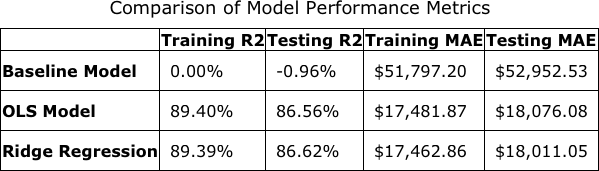
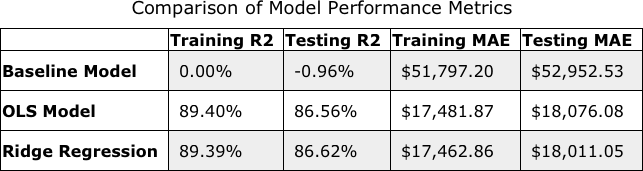
update summary tables as images

diff --git a/code/table_code.py b/code/table_code.py
@@ -24,10 +24,12 @@ tb_styles = {'selector': 'table',
 th_styles = {'selector': 'th', 
              'props': [('border', "1"),
                      ("border-color", "black"),
+                       ('background', 'white'),
                      ('border-style','solid'),
                      ('border-width','1px'),
                      ('font-family', 'verdana'),
                      ('white-space', 'nowrap'),
+                       ('padding-right',"10px"),
                      ("text-align", "left")]}
 
 # Css for data rows
@@ -48,8 +50,63 @@ cap_style = {'selector':'caption',
                       ("font-size", "large"),
                      ('padding-bottom',"10px")]}
 
+# Css for even/odd rows
+tr_odds = {'selector': 'tr:nth-of-type(odd)',
+           'props': [('background', '#eee'), 
+                     ("border", "0.2px solid black")]
+          }
+
+tr_evens =  {'selector': 'tr:nth-of-type(even)',
+             'props': [('background', 'white'), 
+                       ("border", "0.2px solid black")]
+            }
+
 options = {'quiet': ''}
 
+
+map_var_names = {'HouseAge':'Age of House',
+                 'TimeSinceRemodel':'Time Since Remodel',
+                 'LotFrontage':'Feet of Street Adjacent to Lot',
+                 'HasFence':'Has a Fence',
+                 'KitchenAbvGr':'Number of Kitchens',
+                 'MSSubClass':'Dwelling Class Code',
+                 'OverallCond':'Overall House Condition',
+                 'RemodFiveYrs':'Remodeled in Last 5 Years',
+                 'YrSold':'Year of Sale',
+                 'BsmtHalfBath': 'Number of Half Baths in Basement',
+                 'MoSold':'Month Sold',
+                 'HasRemod':'Has Been Remodeled',
+                 'GasAirHeat': 'Heat Forced Air',
+                 'HasPool':'Has A Pool',
+                 'HasBasement':"House has Basement",
+                 'GarageAreaPerCar':'Square Feet per Car',
+                 'BsmtPerFinished':'Percent of Basement Finished',
+                 'HasFinishedBsmt':"At Least Partially Finished Basement",
+                 'BsmtUnfSF':'Sqft of Unfinished Basement',
+                 'BedroomAbvGr': "Count of Bedrooms Above Ground",
+                 'BsmtFullBath': "Number of Full Baths in Basment",
+                 'SBboxElectric':'Standard Circuit Breaker',
+                 'HasGarage': 'Property has Garage', 
+                 'HasCentralAir': "Home has Central Air", 
+                 'LotArea':'Size of Lot in sqft', 
+                 'HasPorch':"Home has Porch", 
+                 'HasDeck':"Home has Deck",
+                 'HalfBath':'Number of Half Baths', 
+                 'GaragebuiltWHouse': 'Garage Built with House', 
+                 '2ndFlrSF': 'Sqft of Second Floor', 
+                 'MasVnrArea':'Masonry veneer area in square feet',
+                 'HasFirePlace':"Has as least one Fireplace", 
+                 'TotRmsAbvGrd': 'Total Rooms above Ground', 
+                 'FullBath': 'Count of Full Baths', 
+                 'AverageRoomSize': 'Sqft of Average Room',
+                 'GarageArea':'Sqft of Garage', 
+                 '1stFlrSF':'Sqft of First Floor', 
+                 'GarageCars':"Garage Cars Capacity", 
+                 'TotalBsmtSF': "Sqft of Basement", 
+                 'GrLivArea': 'Total living space in Sqft',
+                 'OverallQual':'Overall Home Quality Ranking', 
+                 'SalePrice':'Price of Sale', 
+                 'HasAlley':'Property connected to Alley'}
 
 def summary_table(test):
     """This function:
@@ -67,7 +124,7 @@ def summary_table(test):
     
     # Formats the css and html to make it look nice
     
-    improved = test.style.format({'Training R2': '{:.2%}','Testing R2':'{:.2%}' ,'Training MAE ':'${:,.2f}' ,'Testing MAE': '${:,.2f}'}).set_table_attributes('style="border-collapse:collapse"').set_table_styles([tb_styles, th_styles,td_styles,cap_style]).set_caption(caption_txt)
+    improved = test.style.format({'Training R2': '{:.2%}','Testing R2':'{:.2%}' ,'Training MAE ':'${:,.2f}' ,'Testing MAE': '${:,.2f}'}).set_table_attributes('style="border-collapse:collapse"').set_table_styles([tb_styles, th_styles,td_styles,tr_odds, tr_evens, cap_style]).set_caption(caption_txt)
 
 
     # Renders the html
@@ -95,3 +152,53 @@ def summary_table(test):
     # BAM, saves the cropped image file over the orignal
     cropped_image.save(path)
     pass
+
+def coefficient_table(test):
+    test_df2 = test.copy()
+    test_df2['two'] = test_df2.index.map(map_var_names)
+    test_df2.set_index('two', inplace=True)
+    del test_df2.index.name
+    
+    caption_txt = 'Impact of Home Variables on Sale Price'
+    improved = test_df2.sort_values(by='Coefficients').tail(10).style.format("${:,.2f}").set_table_attributes('style="border-collapse:collapse"').set_table_styles([tb_styles, th_styles,td_styles,tr_odds, tr_evens, cap_style]).set_caption(caption_txt)
+    
+    
+    # Renders the html
+    html = improved.render()
+
+    file_name = "model_coefficients"
+    # Renders the html & saves as image
+    path = './images/'+file_name+'.png'
+    imgkit.from_string(html, path, options=options)
+
+    # Crops the image
+    
+    ## PIL opens image
+    im = Image.open(path)
+    
+    ## Inverts the colors of the image, because getbbox looks for black boundaries, not white ones
+    inverted = ImageOps.invert(im.convert('RGB'))
+    
+    ## Get the automated boundaries box from the inverted file
+    boxed = inverted.getbbox()
+    
+    ## Slaps those crop boundaries on the orginal image
+    cropped_image=im.crop(boxed)
+
+    # BAM, saves the cropped image file over the orignal
+    cropped_image.save(path)
+    
+    # try to make white transparent
+    img = Image.open(path)
+    img = img.convert("RGBA")
+    pixdata = img.load()
+    
+    width, height = img.size
+    for y in range(height):
+        for x in range(width):
+            if pixdata[x, y] == (255, 255, 255, 255):
+                pixdata[x, y] = (255, 255, 255, 0)
+    img.save(path, "PNG")
+    
+    pass
+

diff --git a/code/visuals_code.py b/code/visuals_code.py
@@ -40,7 +40,7 @@ map_var_names = {'HouseAge':'Age of House',
                  'YrSold':'Year of Sale',
                  'BsmtHalfBath': 'Number of Half Baths in basement',
                  'MoSold':'Month Sold',
-                 'HasRemod':'Has Been Remodelled',
+                 'HasRemod':'Has Been Remodeled',
                  'GasAirHeat': 'Heat Forced Air',
                  'HasPool':'Has A Pool',
                  'HasBasement':"House has Basement",
@@ -66,12 +66,18 @@ map_var_names = {'HouseAge':'Age of House',
                  'AverageRoomSize': 'Sqft of Average Room',
                  'GarageArea':'Sqft of Garage', 
                  '1stFlrSF':'Sqft of First Floor', 
-                 'GarageCars':"Garage fits how many Cars", 
+                 'GarageCars':"Garage Cars Capacity", 
                  'TotalBsmtSF': "Sqft of Basement", 
                  'GrLivArea': 'Total living sapce in Sqft',
                  'OverallQual':'Overall Quality Ranking of Home', 
                  'SalePrice':'Price of Sale', 
                  'HasAlley':'Property connected to Alley'}
+
+def remap_index(test_df):
+    test_df2 = test_df.copy
+    test_df2['two'] = test_df2.index.to_series().map(map_var_names)
+    test_df2.reset_index(['two'], inplace=True)
+    return test_df2
 
 def dist_var_one(series_var,filename):
 

diff --git a/README.md b/README.md
@@ -33,7 +33,7 @@ Because I used only numeric columns, I did not perform any encoding techniques. 
 I began with a baseline that predicts only the mean house price from the training data for each house. My final model is a Ridge regression model, which uses L-2 regularization to manage the multicollinearity between the features used in the model.
 
 
-![model_comparison](./images/summary_stats.png)
+![model_comparison2](./images/summary_stats.png)
 
 ## Evaluation
 
